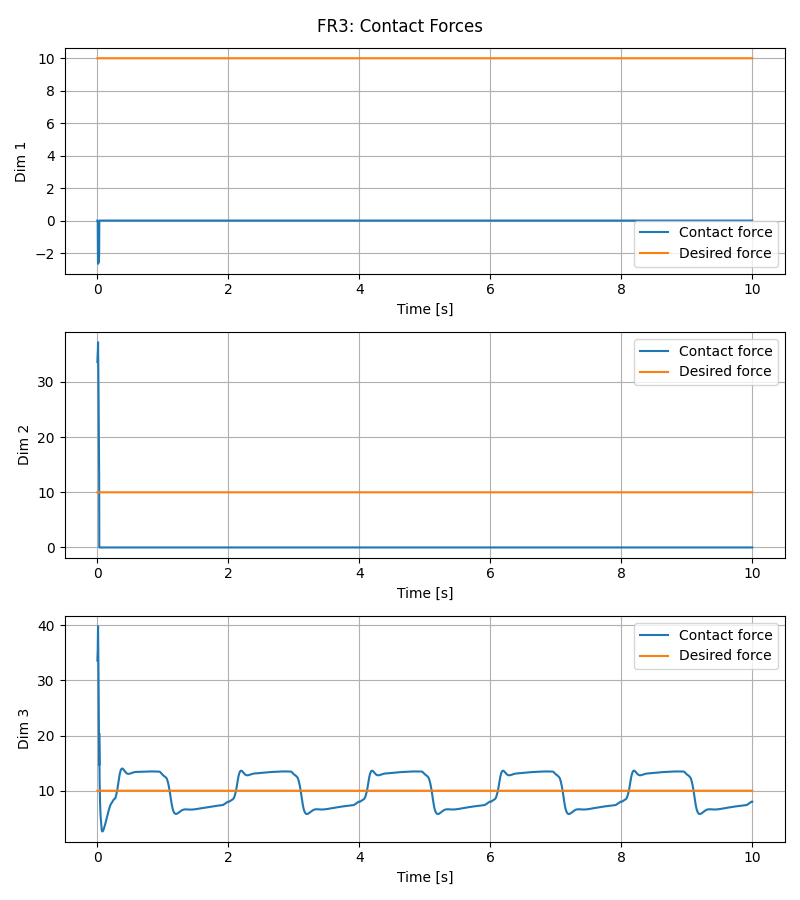
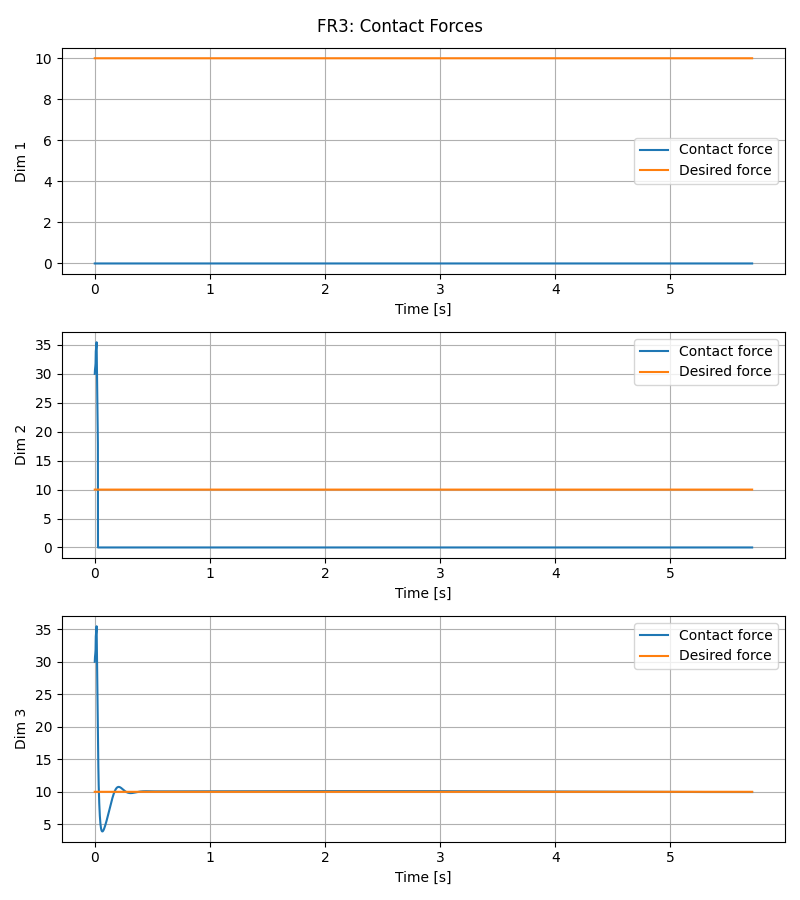
pi/4 with fr3_no_joint_friction.xml and constant force results

diff --git a/src/robot_configs.py b/src/robot_configs.py
@@ -23,7 +23,7 @@ class RobotConfig:
 # FR3 Robot Configuration
 FR3_CONFIG = RobotConfig(
     name="fr3",
-    pinocchio_xml_path="franka_fr3/fr3.xml",
+    pinocchio_xml_path="franka_fr3/fr3_no_joint_friction.xml",
     mujoco_scene_xml_path="franka_fr3/scene.xml",
     joint_names=[
         'fr3_joint1', 'fr3_joint2', 'fr3_joint3', 'fr3_joint4', 

diff --git a/src/controller_config.py b/src/controller_config.py
@@ -25,7 +25,7 @@ class ControllerConfig:
     circle_center: np.ndarray = None
     circle_radius: float = 0.05
     circle_duration: float = 10.0
-    angular_speed: float = np.pi
+    angular_speed: float = np.pi/4
 
     # Contact detection thresholds
     position_tolerance: float = 0.01  # 1cm tolerance for reaching target
